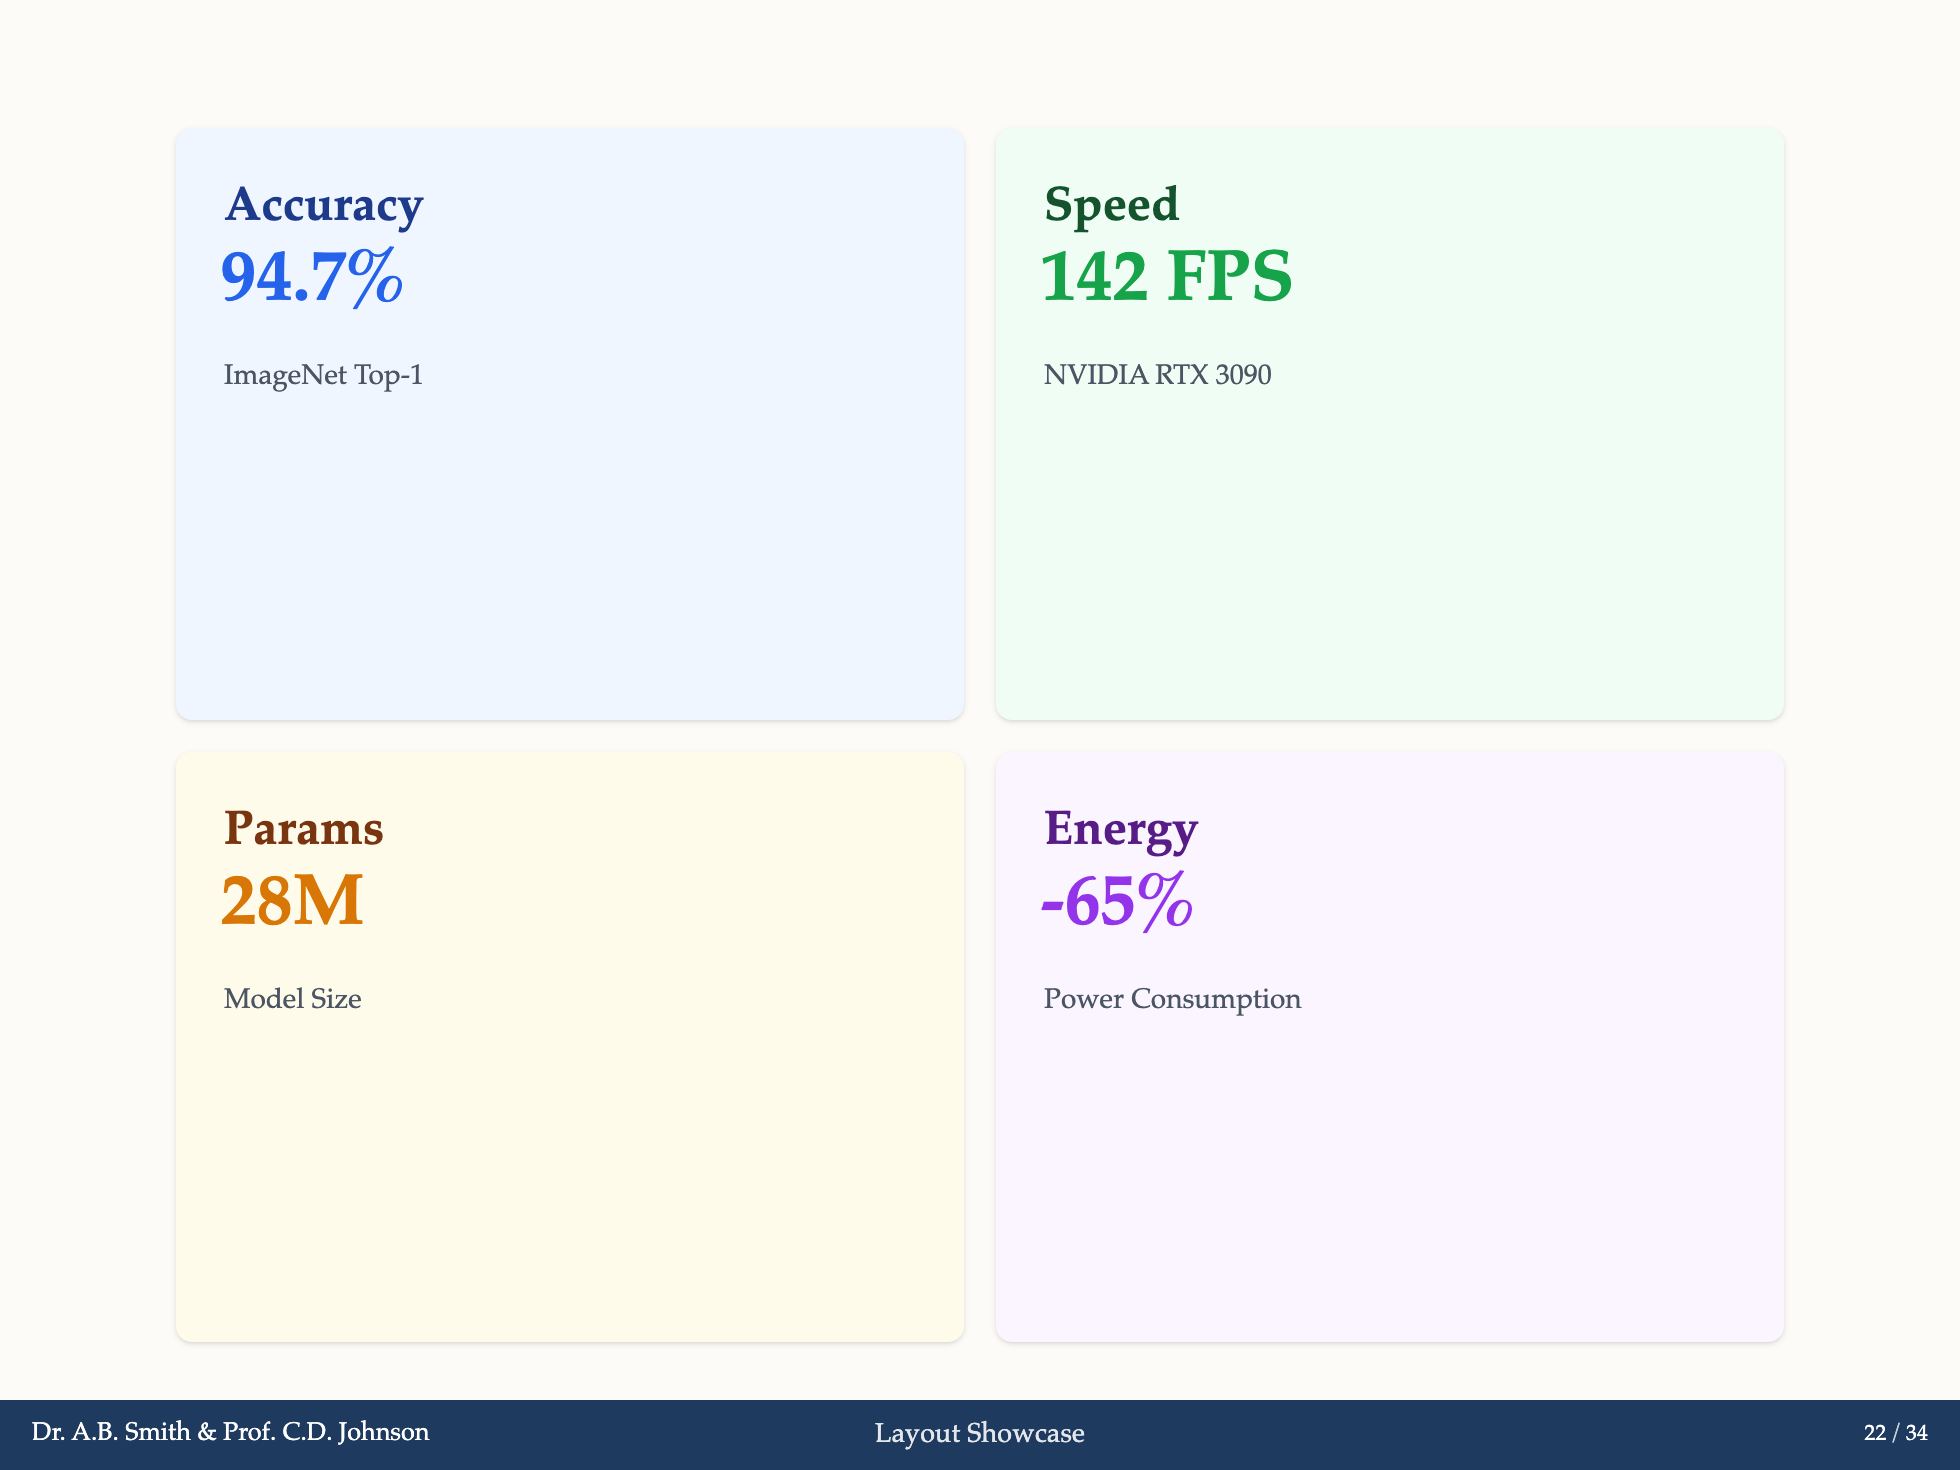
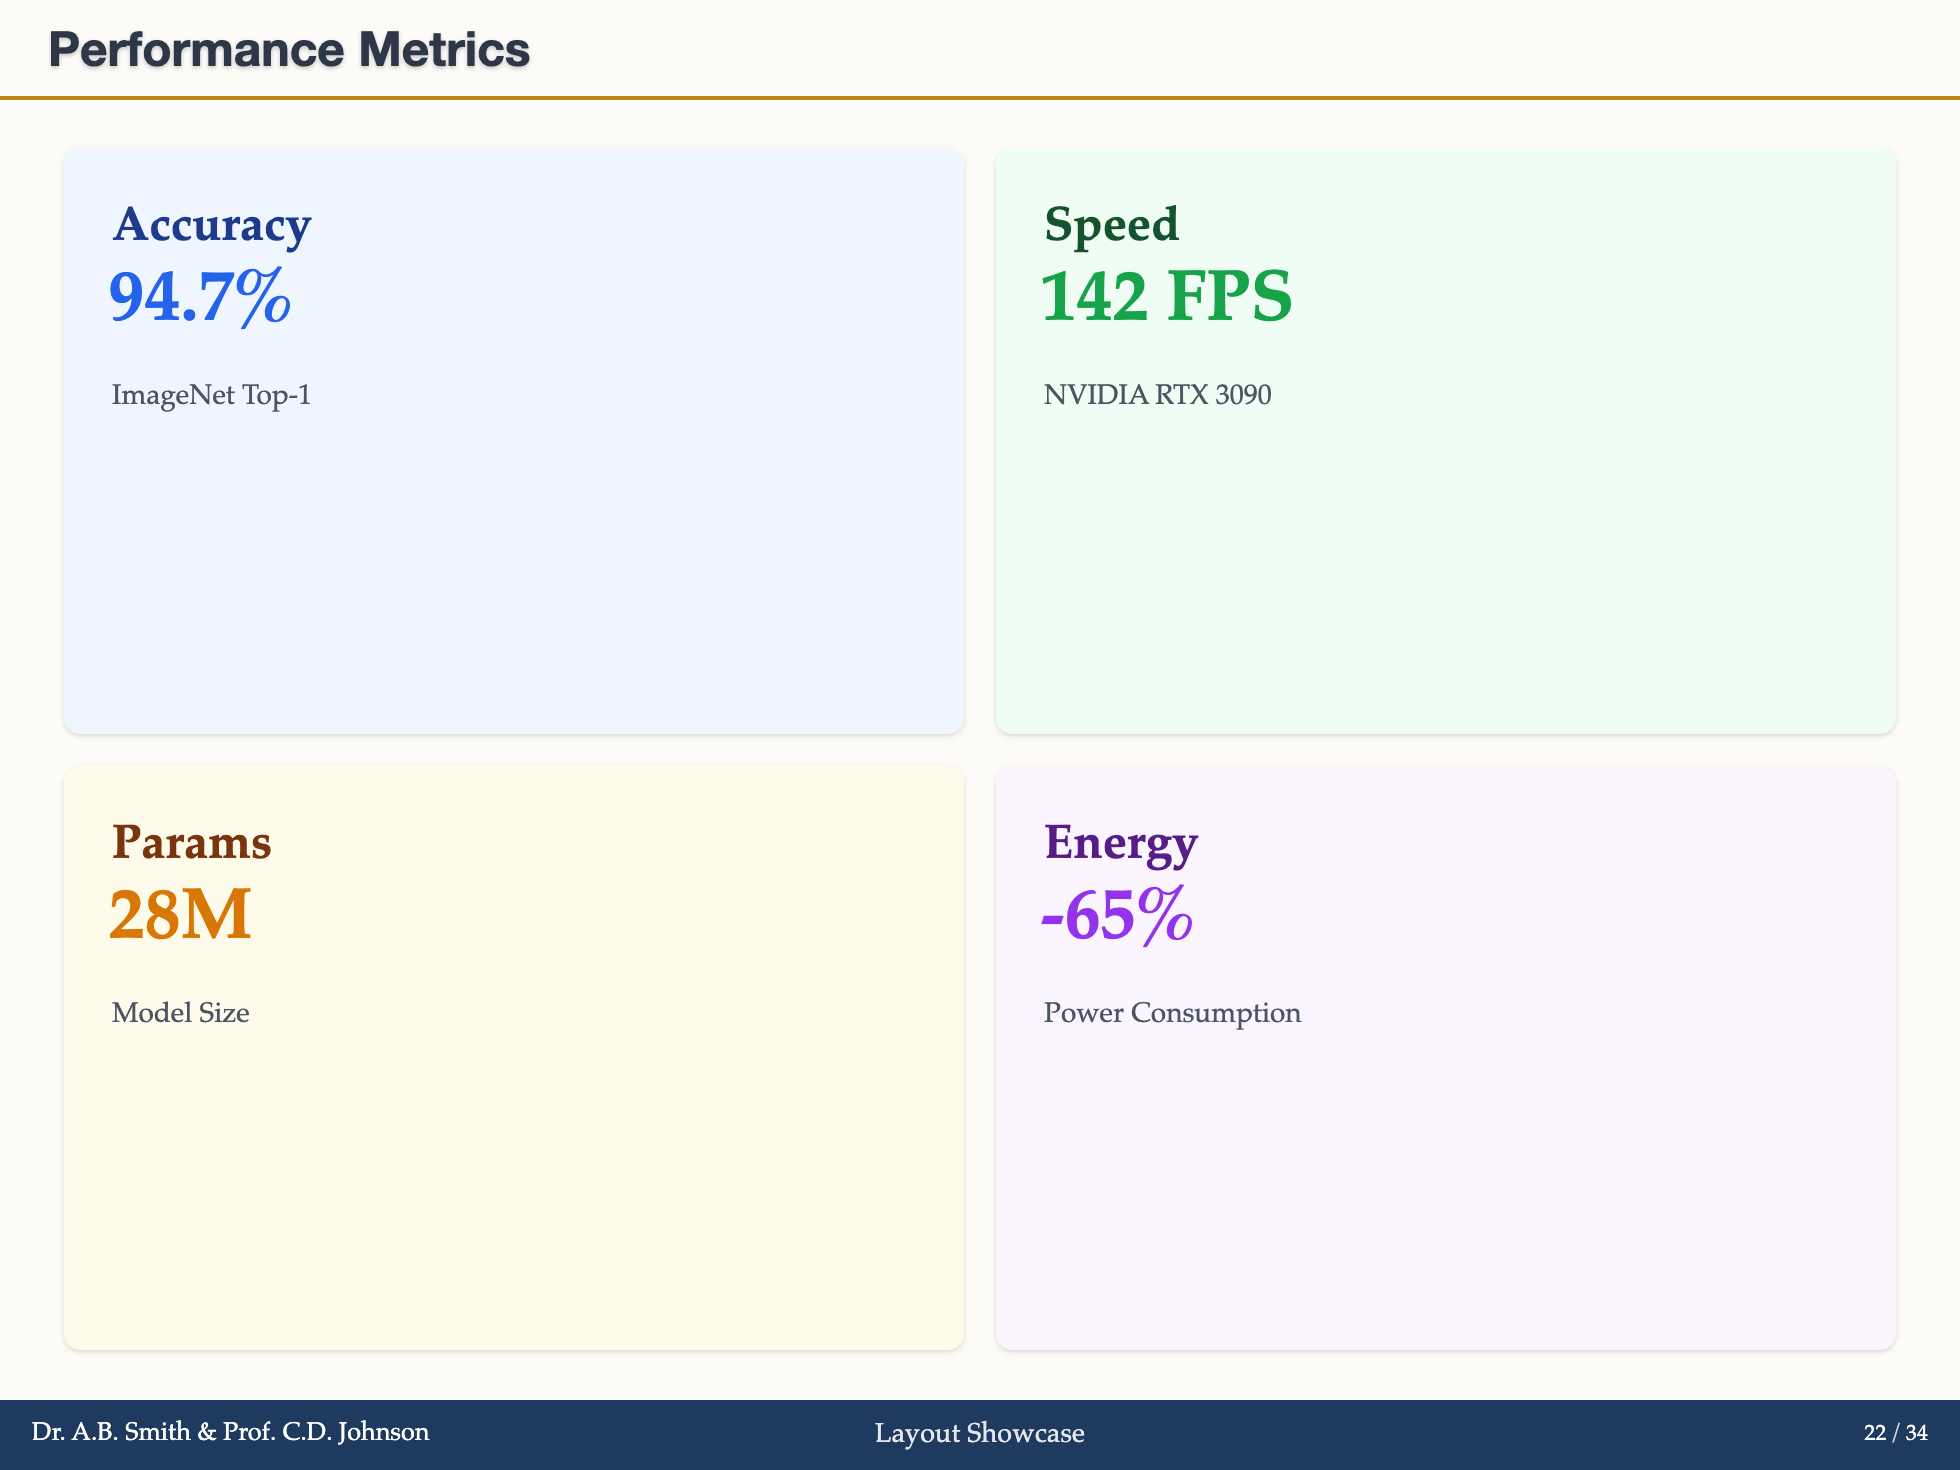
fix(theme): remove repeated titles and sync corrected previews

diff --git a/layouts/acknowledgments.vue b/layouts/acknowledgments.vue
@@ -2,7 +2,7 @@
   <div class="slidev-layout flow-header-layout acknowledgments h-full flex flex-col">
     <ScholarlyHeader v-if="hasHeader" class="flex-shrink-0" />
     <div class="flex-grow flex flex-col items-center justify-center text-center p-10" :style="computedStyles">
-      <h1 class="text-3xl font-bold mb-12 text-primary tracking-wide">
+      <h1 v-if="!hasHeader" class="text-3xl font-bold mb-12 text-primary tracking-wide">
         {{ title || 'Acknowledgments' }}
       </h1>
 

diff --git a/layouts/agenda.vue b/layouts/agenda.vue
@@ -3,7 +3,7 @@
     <ScholarlyHeader v-if="hasHeader" class="flex-shrink-0" />
     <div class="flex-grow flex items-center justify-center" :style="computedStyles">
       <div class="w-full max-w-3xl px-8">
-        <h1 class="text-3xl font-bold mb-10 text-center text-primary tracking-tight">
+        <h1 v-if="!hasHeader" class="text-3xl font-bold mb-10 text-center text-primary tracking-tight">
           {{ title || 'Agenda' }}
         </h1>
         <div class="space-y-4">
